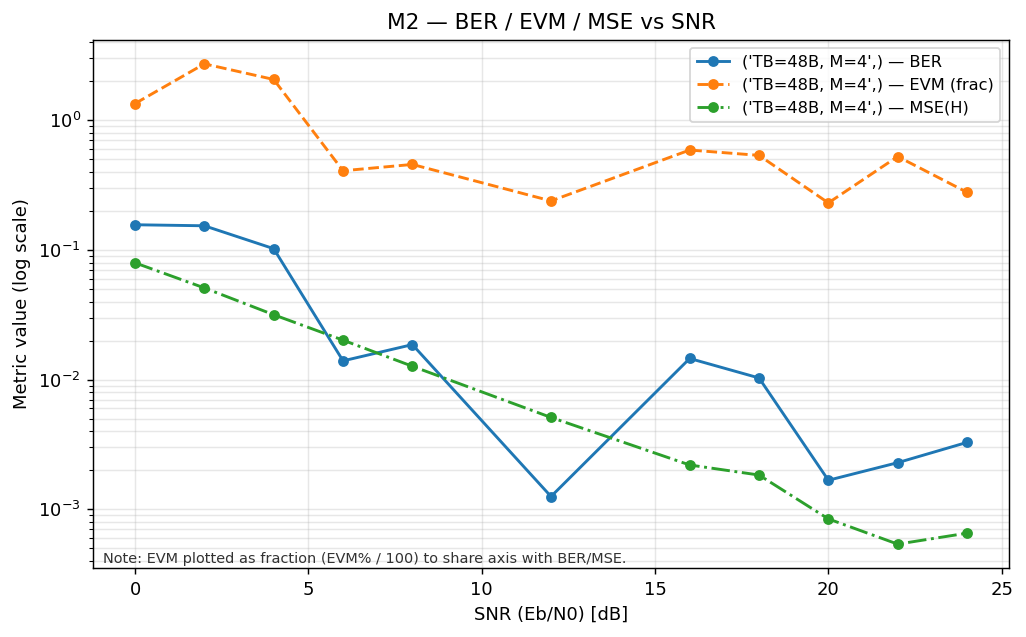
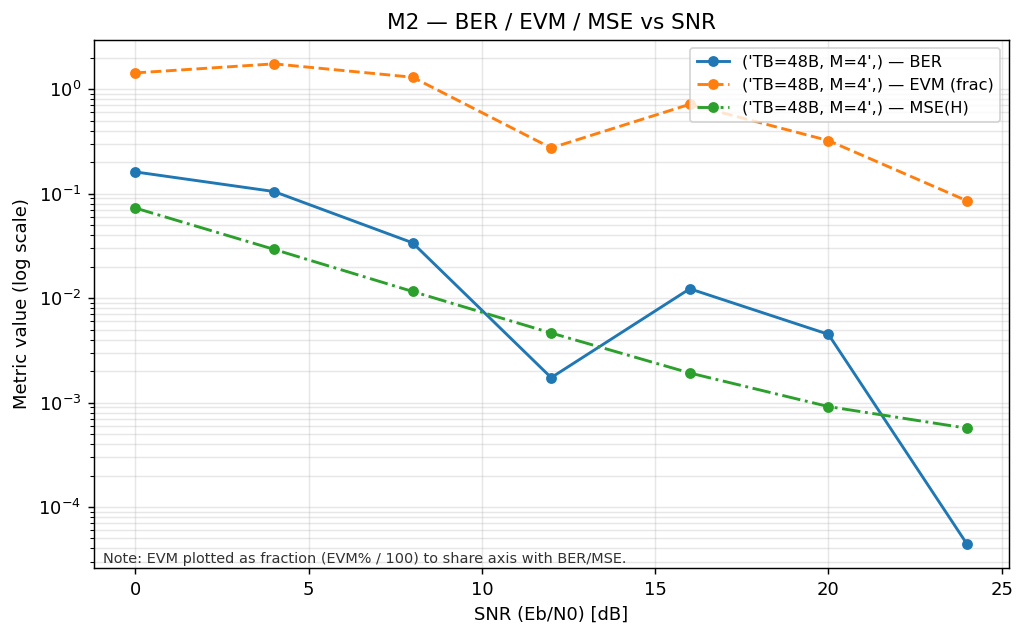
autoramp on

diff --git a/scripts/run_sims.py b/scripts/run_sims.py
@@ -1,4 +1,5 @@
 import argparse, yaml, json, copy
+import numpy as np
 from nr_urllc import simulate
 from nr_urllc import urllc as urllc_mod
 from nr_urllc import nr_timing as nr_time_mod
@@ -225,26 +226,69 @@ def main():
         # ---- OPTIONAL DIAGNOSTIC ADD-ON (no new files) ----
         # Append EVM/MSE per SNR by running a light, non-autoramp pass per SNR
         # using the same numerology/pilots/equalizer.
-        evm_curve, mseH_curve = [], []
-        # choose a small but stable diagnostic bit budget
-        diag_bits = max(int(auto.get("min_bits", 50_000)) * 4, 200_000)
-        for snr in result.get("snr_db", []):
-            cfg2 = copy.deepcopy(cfg)
-            cfg2.setdefault("sim", {})["autoramp"] = False
-            cfg2.setdefault("channel", {})["snr_db_list"] = [float(snr)]
-            cfg2.setdefault("tx", {})["n_bits"] = int(diag_bits)
+        
+        import numpy as np  # Add this import at the top if not already there
+        
+        evm_curve = []  # Initialize the lists BEFORE the loop
+        mseH_curve = []
+        
+        print("\n[EVM/MSE Diagnostic] Running enhanced diagnostic sweeps...")
+        
+        for snr in result.get("snr_db", []):  # Loop over each SNR point
+            # SNR-adaptive bit budget: more bits at high SNR where variance is larger
+            if snr >= 16:
+                diag_bits = 2_000_000
+            elif snr >= 10:
+                diag_bits = 1_000_000
+            else:
+                diag_bits = 500_000
+
+            n_diagnostic_runs = 5  # More runs = smoother curve
+            evm_samples = []
+            mse_samples = []
             
-            # CRITICAL: don't let the per-SNR diagnostic runs clobber your final JSON
-            cfg2.setdefault("io", {})["write_json"] = False
-            cfg2["io"]["plot"] = False
-            cfg2["io"]["show_plot"] = False
+            print(f"  SNR={snr:.1f} dB: Running {n_diagnostic_runs} diagnostic runs with {diag_bits:,} bits each...")
+
+            for run_idx in range(n_diagnostic_runs):
+                cfg2 = copy.deepcopy(cfg)
+                cfg2.setdefault("sim", {})["autoramp"] = False
+                cfg2.setdefault("channel", {})["snr_db_list"] = [float(snr)]
+                cfg2.setdefault("tx", {})["n_bits"] = int(diag_bits)
+                cfg2.setdefault("io", {})["write_json"] = False
+                cfg2["io"]["plot"] = False
+                cfg2["io"]["show_plot"] = False
+                
+                # IMPORTANT: Use different seed for each run
+                base_seed = cfg.get("sim", {}).get("seed", 0)
+                cfg2["sim"]["seed"] = base_seed + run_idx + int(snr * 1000)
+                
+                r2 = simulate.run(cfg2)
+                evm_val = r2.get("evm_percent", [float("nan")])
+                mse_val = r2.get("mse_H", [float("nan")])
+                
+                # Handle both list and scalar returns
+                if isinstance(evm_val, list):
+                    evm_val = evm_val[0] if len(evm_val) > 0 else float("nan")
+                if isinstance(mse_val, list):
+                    mse_val = mse_val[0] if len(mse_val) > 0 else float("nan")
+                
+                evm_samples.append(float(evm_val))
+                mse_samples.append(float(mse_val))
+
+            # Take median (more robust than mean to outliers)
+            evm_median = float(np.median(evm_samples))
+            mse_median = float(np.median(mse_samples))
             
-            r2 = simulate.run(cfg2)  # expects arrays: evm_percent, mse_H (and ber)
-            evm_curve.append(float(r2.get("evm_percent", [float("nan")])[0]))
-            mseH_curve.append(float(r2.get("mse_H", [float("nan")])[0]))
+            print(f"    → EVM: {evm_median:.2f}% (samples: {[f'{x:.1f}' for x in evm_samples]})")
+            print(f"    → MSE: {mse_median:.6f}")
+            
+            evm_curve.append(evm_median)
+            mseH_curve.append(mse_median)
 
         result["evm_percent"] = evm_curve  # EVM in %
         result["mse_H"] = mseH_curve
+        
+        print("[EVM/MSE Diagnostic] Complete!\n")
 
     # ---------------------------------------
     # NON-AUTORAMP PATH (all modes supported)

diff --git a/nr_urllc/autoramp.py b/nr_urllc/autoramp.py
@@ -11,7 +11,7 @@ class AutorampController:
       • Computes fixed sigma^2 from Eb/N0, k, and efficiency eta per chunk
     """
 
-    def __init__(self, cfg: dict, M: int, nfft: int, cp_frac: float):
+    def __init__(self, cfg: dict, M: int, nfft: int, cp_frac: float, current_snr_db: float = None):
         self.cfg     = cfg
         self.M       = int(M)
         self.k       = int(np.log2(self.M))
@@ -24,9 +24,22 @@ class AutorampController:
         self.min_used_res  = int(ar_cfg.get("min_used_res", 2_000_000))
         self.max_bits      = int(ar_cfg.get("max_bits", 10_000_000))
         self.noise_blend_w = float(ar_cfg.get("noise_blend_weight", 0.0))  # keep 0.0
+    
+        base_target = int(ar_cfg.get("target_errs", 200))
+        
+        # Scale target errors based on SNR (more errors needed in transition region)
+        if current_snr_db is not None:
+            if 8 <= current_snr_db <= 16:  # Transition region
+                self.target_errs = base_target * 3  # 3x more errors
+            elif current_snr_db > 16:  # High SNR (low BER)
+                self.target_errs = max(base_target // 2, 50)  # Can use fewer
+            else:  # Low SNR (high BER)
+                self.target_errs = base_target
+        else:
+            self.target_errs = base_target
 
-        # Scale min_bits so the number of REs is ~constant across M
-        # Ref = QPSK -> log2(4) = 2
+            # Scale min_bits so the number of REs is ~constant across M
+            # Ref = QPSK -> log2(4) = 2
         self.min_bits_eff = int(self.base_min_bits * (2.0 / max(1, self.k)))
 
         self.reset_counters()
